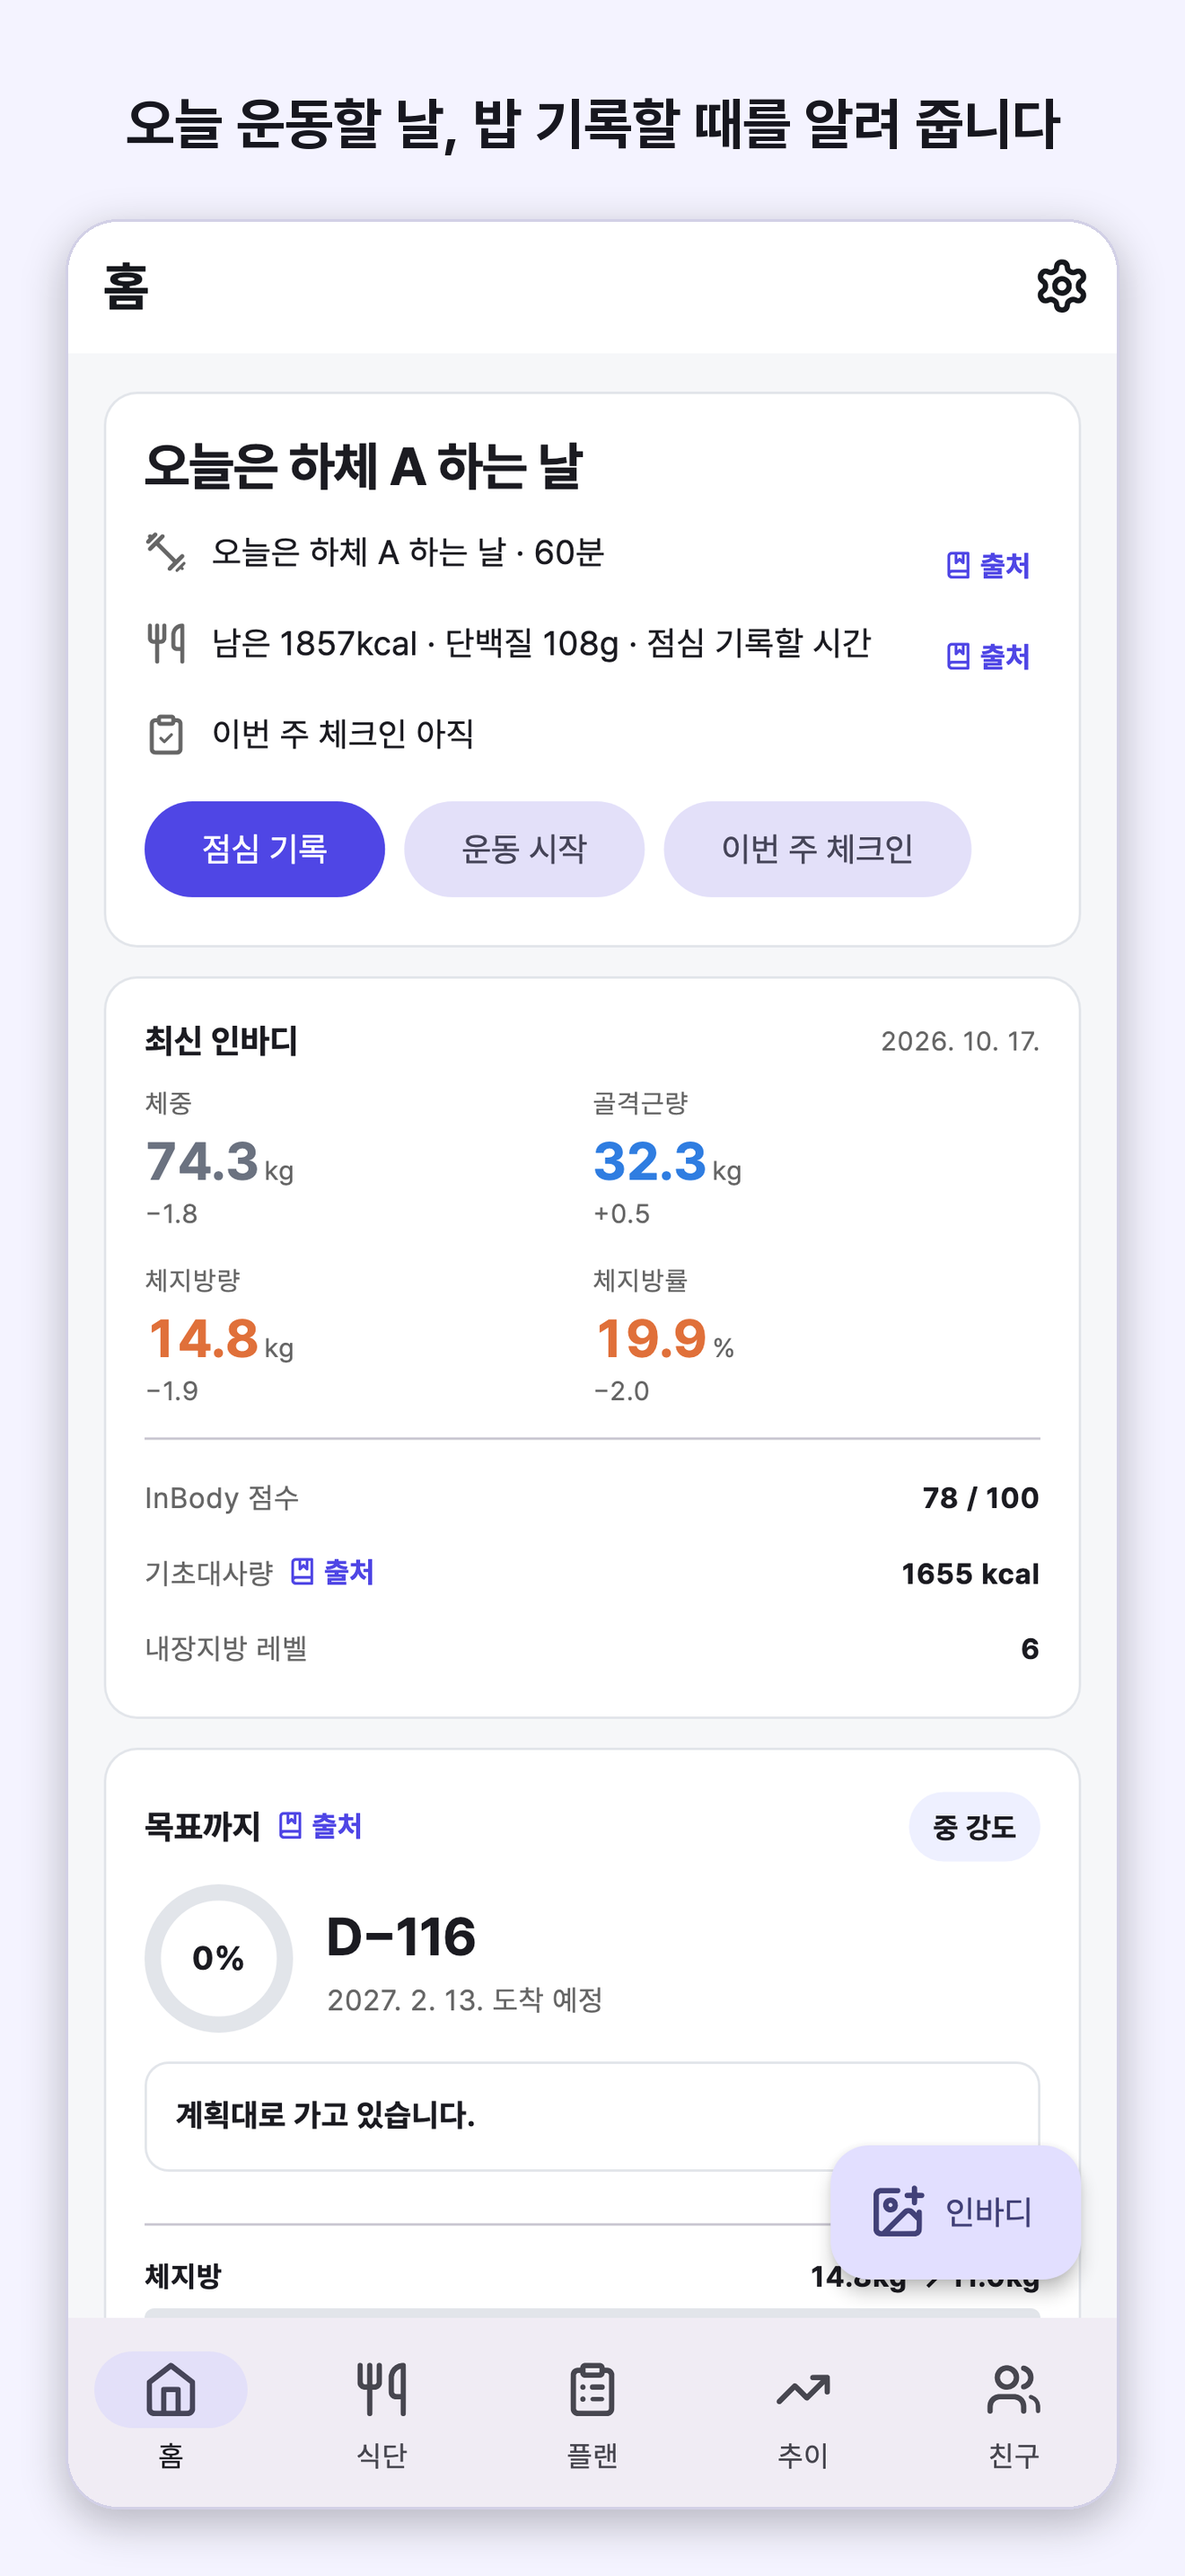
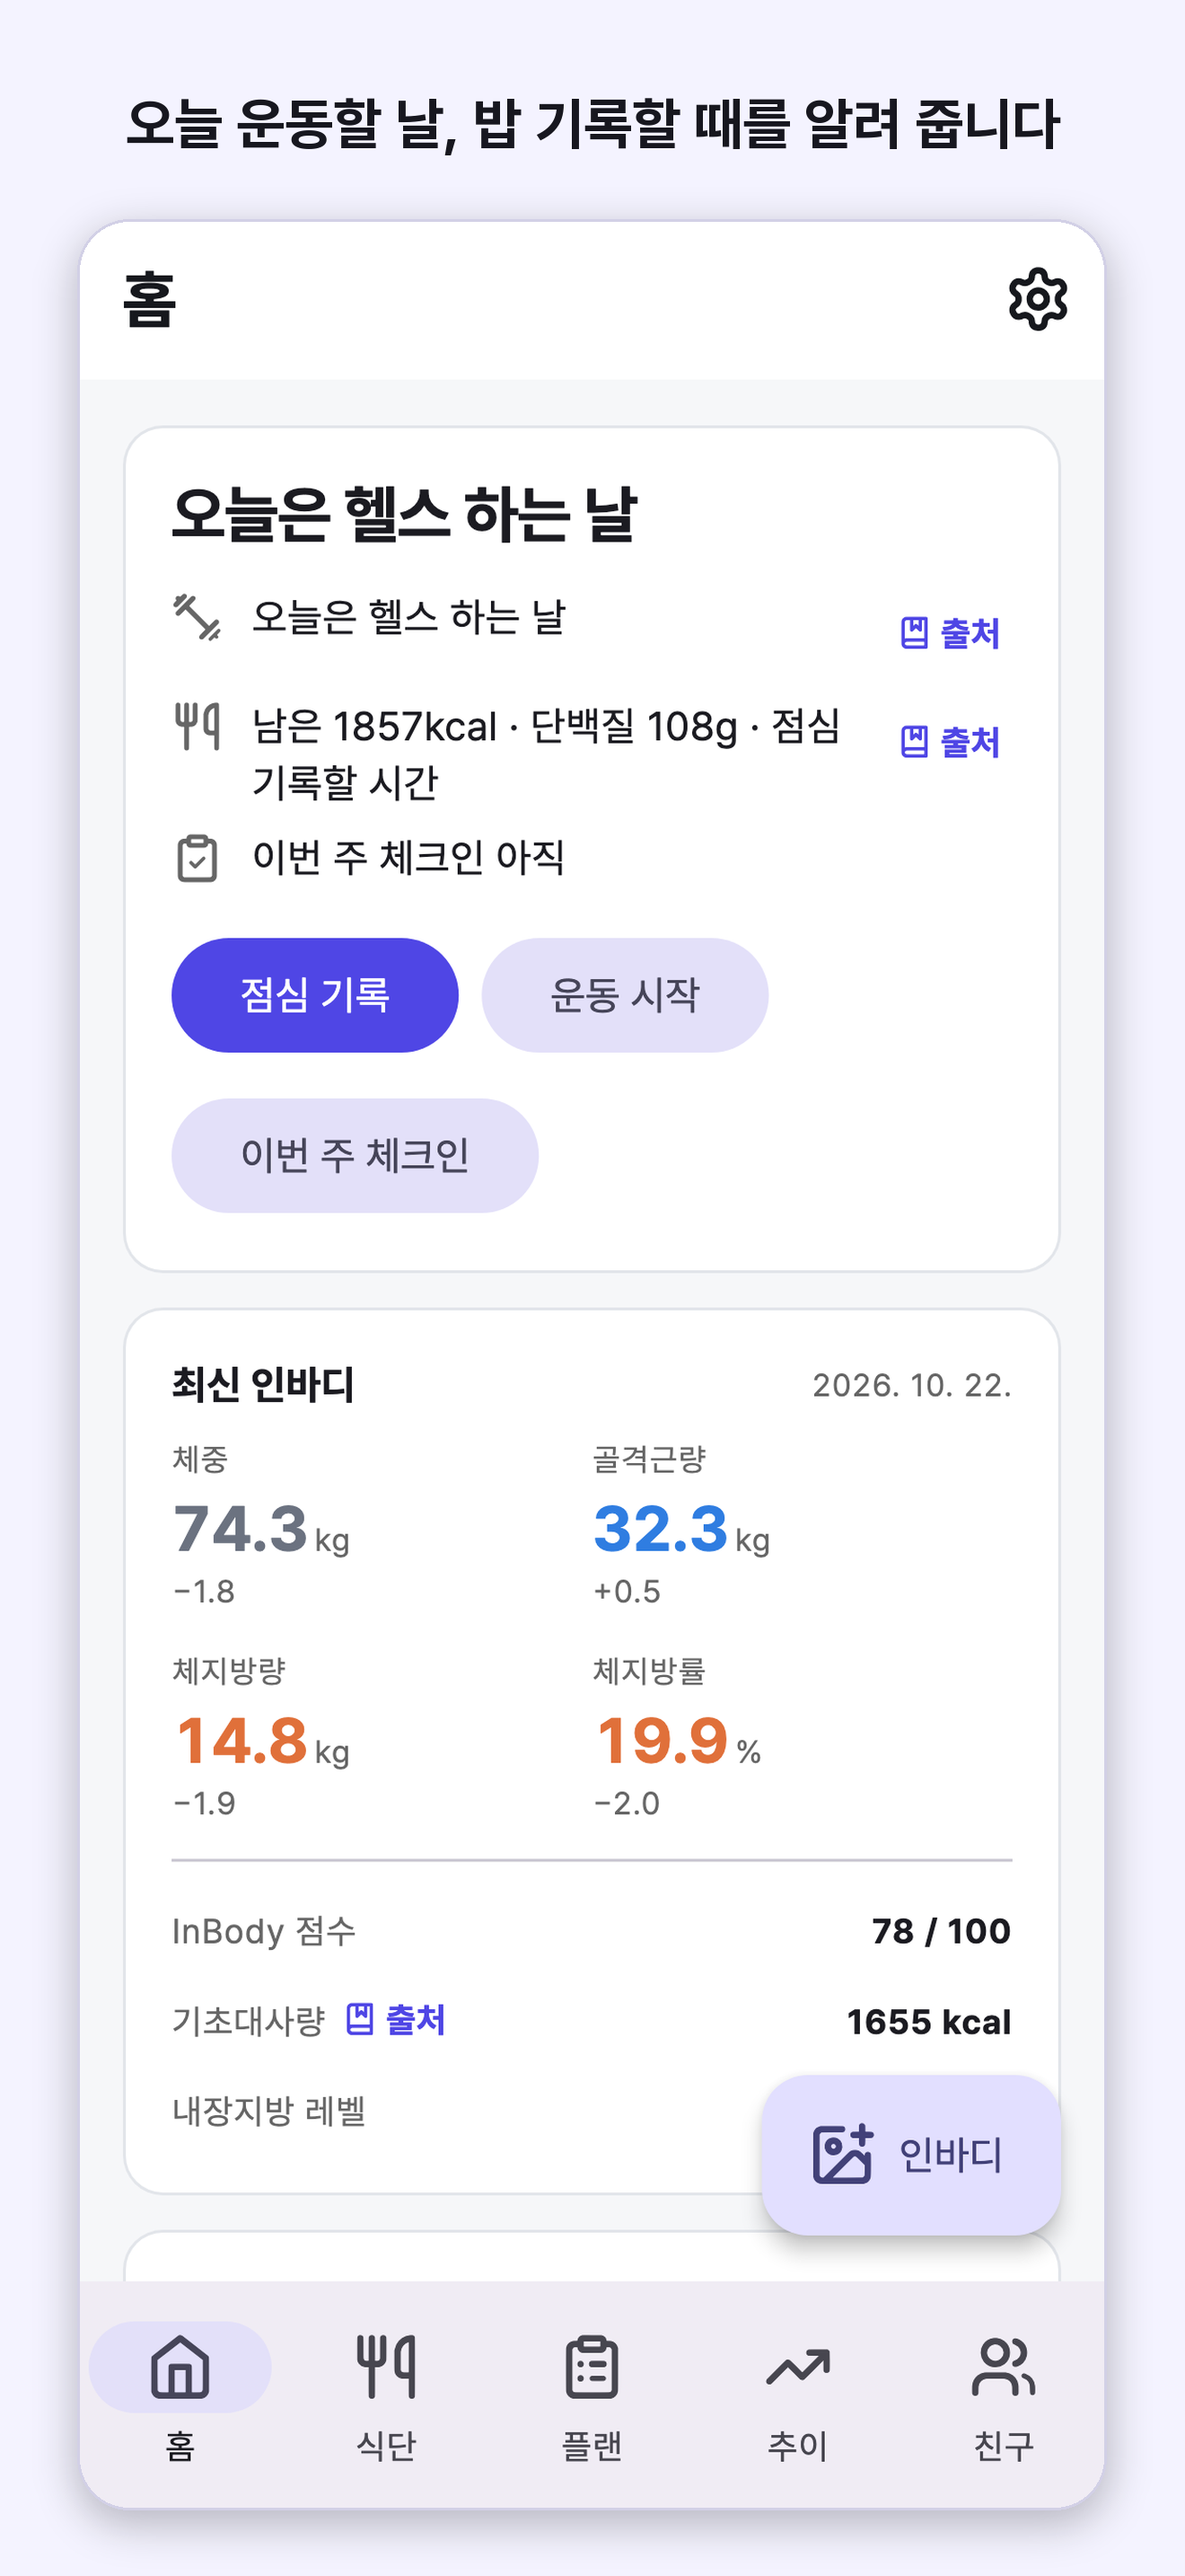
스토어 사진 4장으로: 홈 · 헬스(새 꾹 누르고 말하기 막대) · 식단 · 친구 — 플레이 · 앱스토어 같은 구성
주인 지시(10/25 11:43 · 11:44). 0.2.22 에 b259dbe(누르고 말하기 새 막대)를 넣어 화면과 앱이 맞음.
4b9fdee(받아쓴 글 피드백 전송)는 개인정보 문구가 주인 확인 전이라 이번 판에 넣지 않음.

diff --git a/appstore/등록정보.md b/appstore/등록정보.md
@@ -131,7 +131,7 @@ appstoreconnect.apple.com → 앱 → MyBody. 앱 ID `6815144446`.
 
 ## 그림
 - `그림/icon-1024.png` — 앱 아이콘(알파 없음) — Xcode 프로젝트에도 이미 들어 있음
-- `그림/스크린샷-6.9/*.png` — 아이폰 6.9″ 1320×2868, 10장(최대 10). 순서: 홈 → 인바디 올리기 → 검수 → 목표 → 플랜 → 식단 → 추이 → 친구 상세 → 누르고 말하기 → 지난 운동 기록.
+- `그림/스크린샷-6.9/*.png` — 아이폰 6.9″ 1320×2868, **4장**(주인 결정 2026-10-25, 플레이와 같은 구성): 홈 → 헬스(꾹 누르고 말하기) → 식단 → 친구.
   2026-10-19 에 **가짜 사람 데이터**로 전부 다시 찍었습니다(그 전 판은 주인의 실제 인바디 숫자가 보였음).
   다시 만들기: `cd app && flutter test test_shots/ --dart-define=SHOT_SIZE=1320x2868` →
   `python3 play/make-shots.py app/build/shots-1320x2868 appstore/그림/스크린샷-6.9 --size 1320x2868`.
